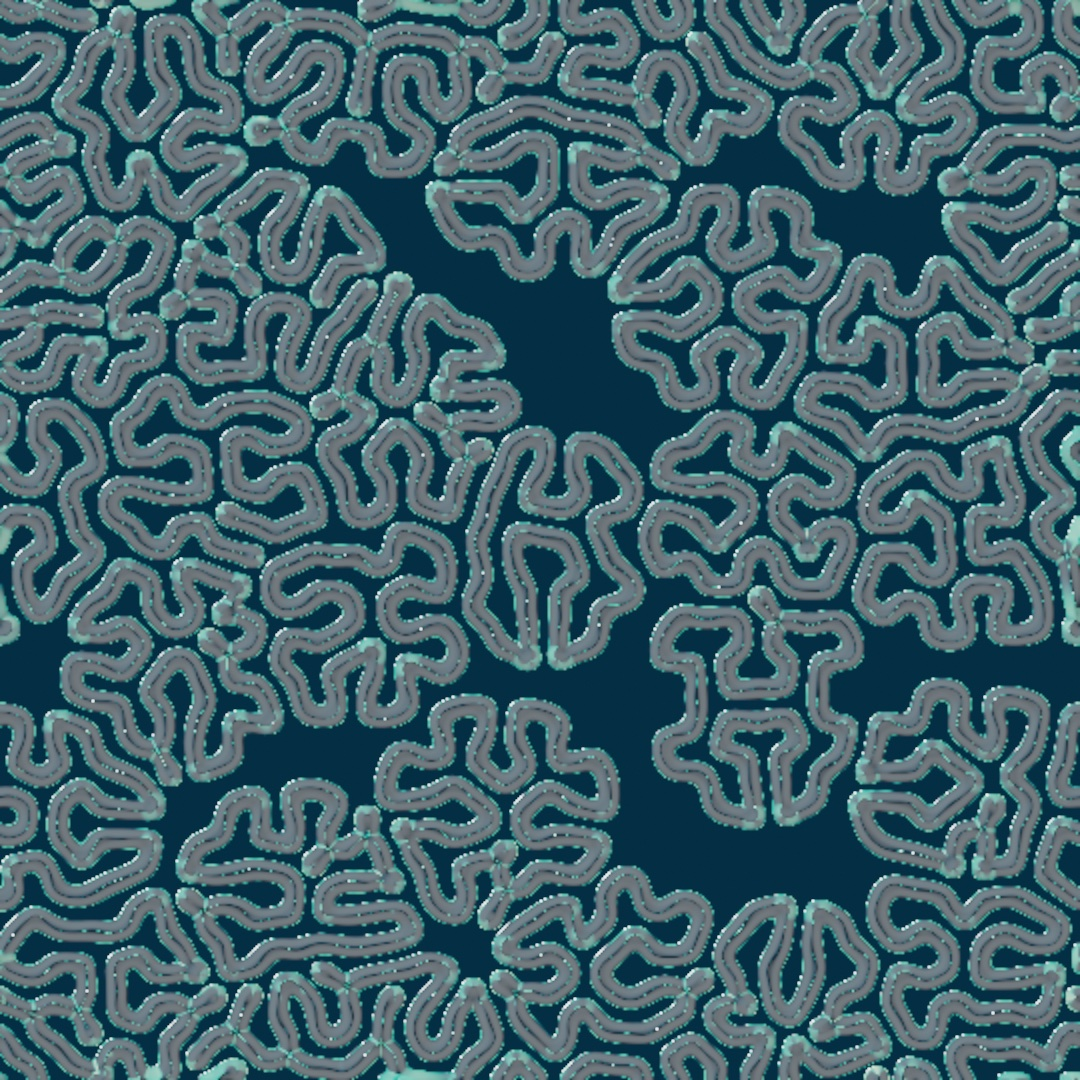
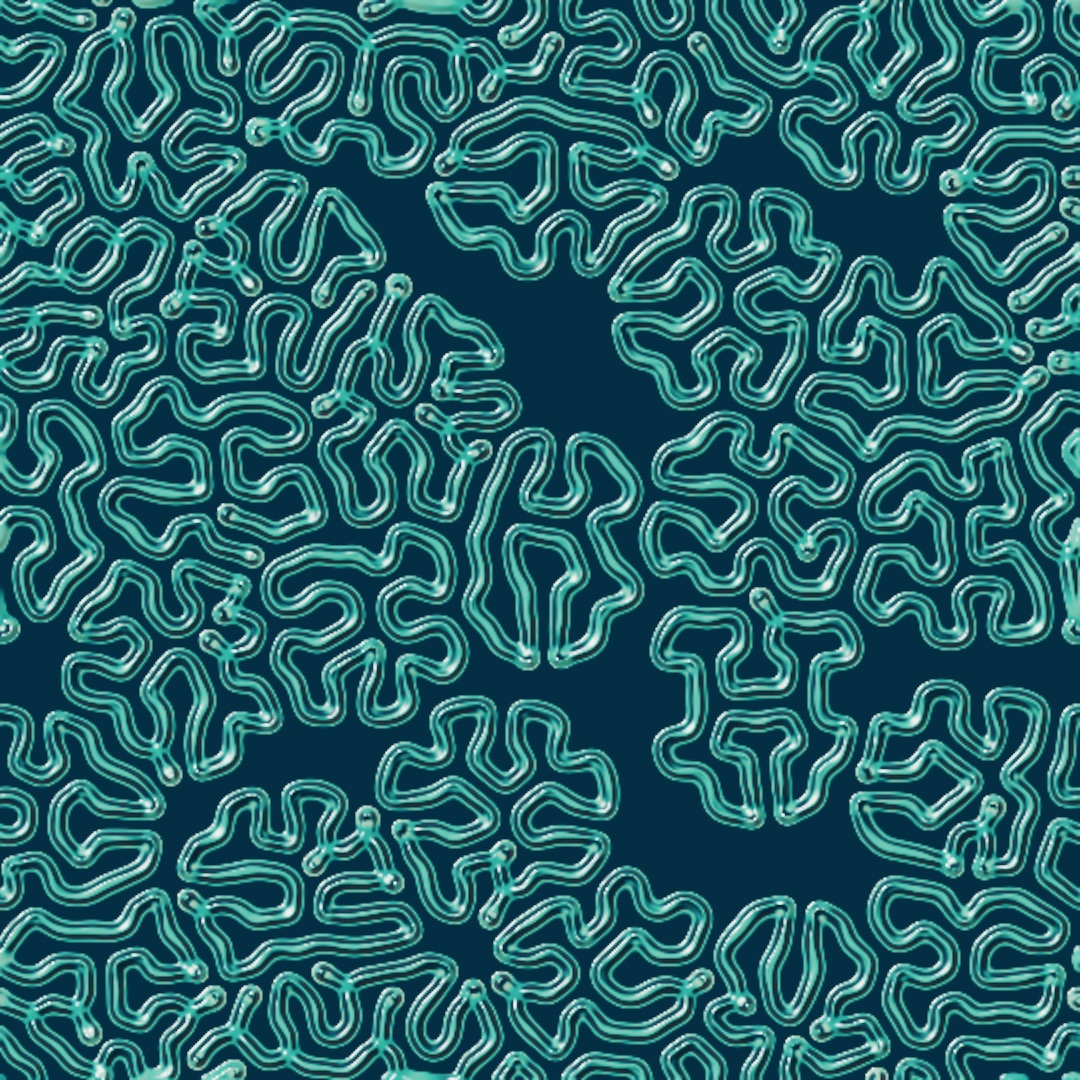
Chapter 23's organism keeps its ramp's colors. The hook figure's ridges rendered slate gray with beaded teal and white along their edges, and the skin ramp's teal and cream never appeared. The relight lights the input's own color, so the ramp was never discarded; what went wrong was relight(.liquid,
Claude-Session: https://claude.ai/code/session_01WqLtBAH3GLezrn1E1FY2W7

diff --git a/Guide/Figures/23-GridSimulations/Organism.swift b/Guide/Figures/23-GridSimulations/Organism.swift
@@ -33,6 +33,6 @@ final class Organism: Sketch {
                          Color(hex: 0x3FA893), Color(hex: 0xF2E3C2)])
         drawImage(dish.filtered(.levels(blackPoint: 0.16, whitePoint: 0.42))
                       .filtered(.gradientMap(skin))
-                      .filtered(.relight(.liquid, height: 1.4)).image, 0, 0)
+                      .filtered(.relight(.liquid, height: 0.08)).image, 0, 0)
     }
 }
